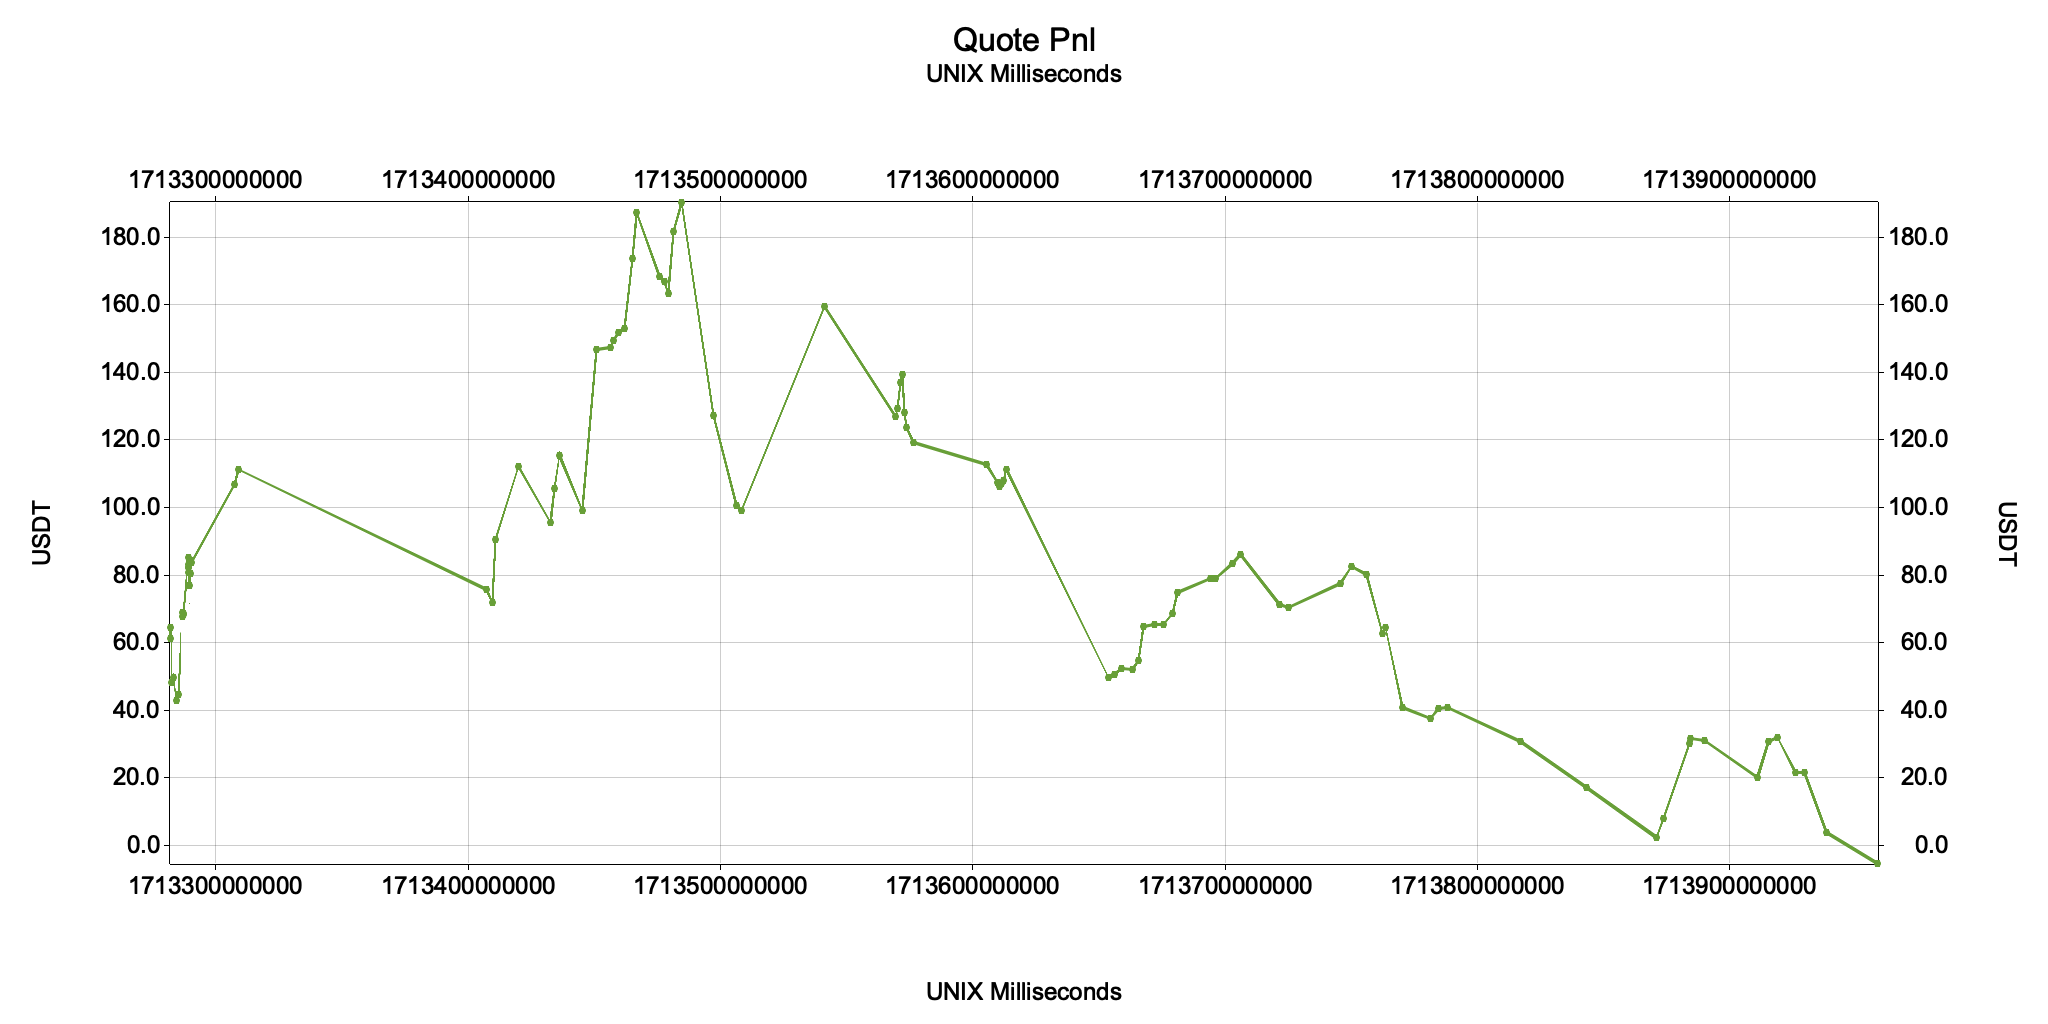
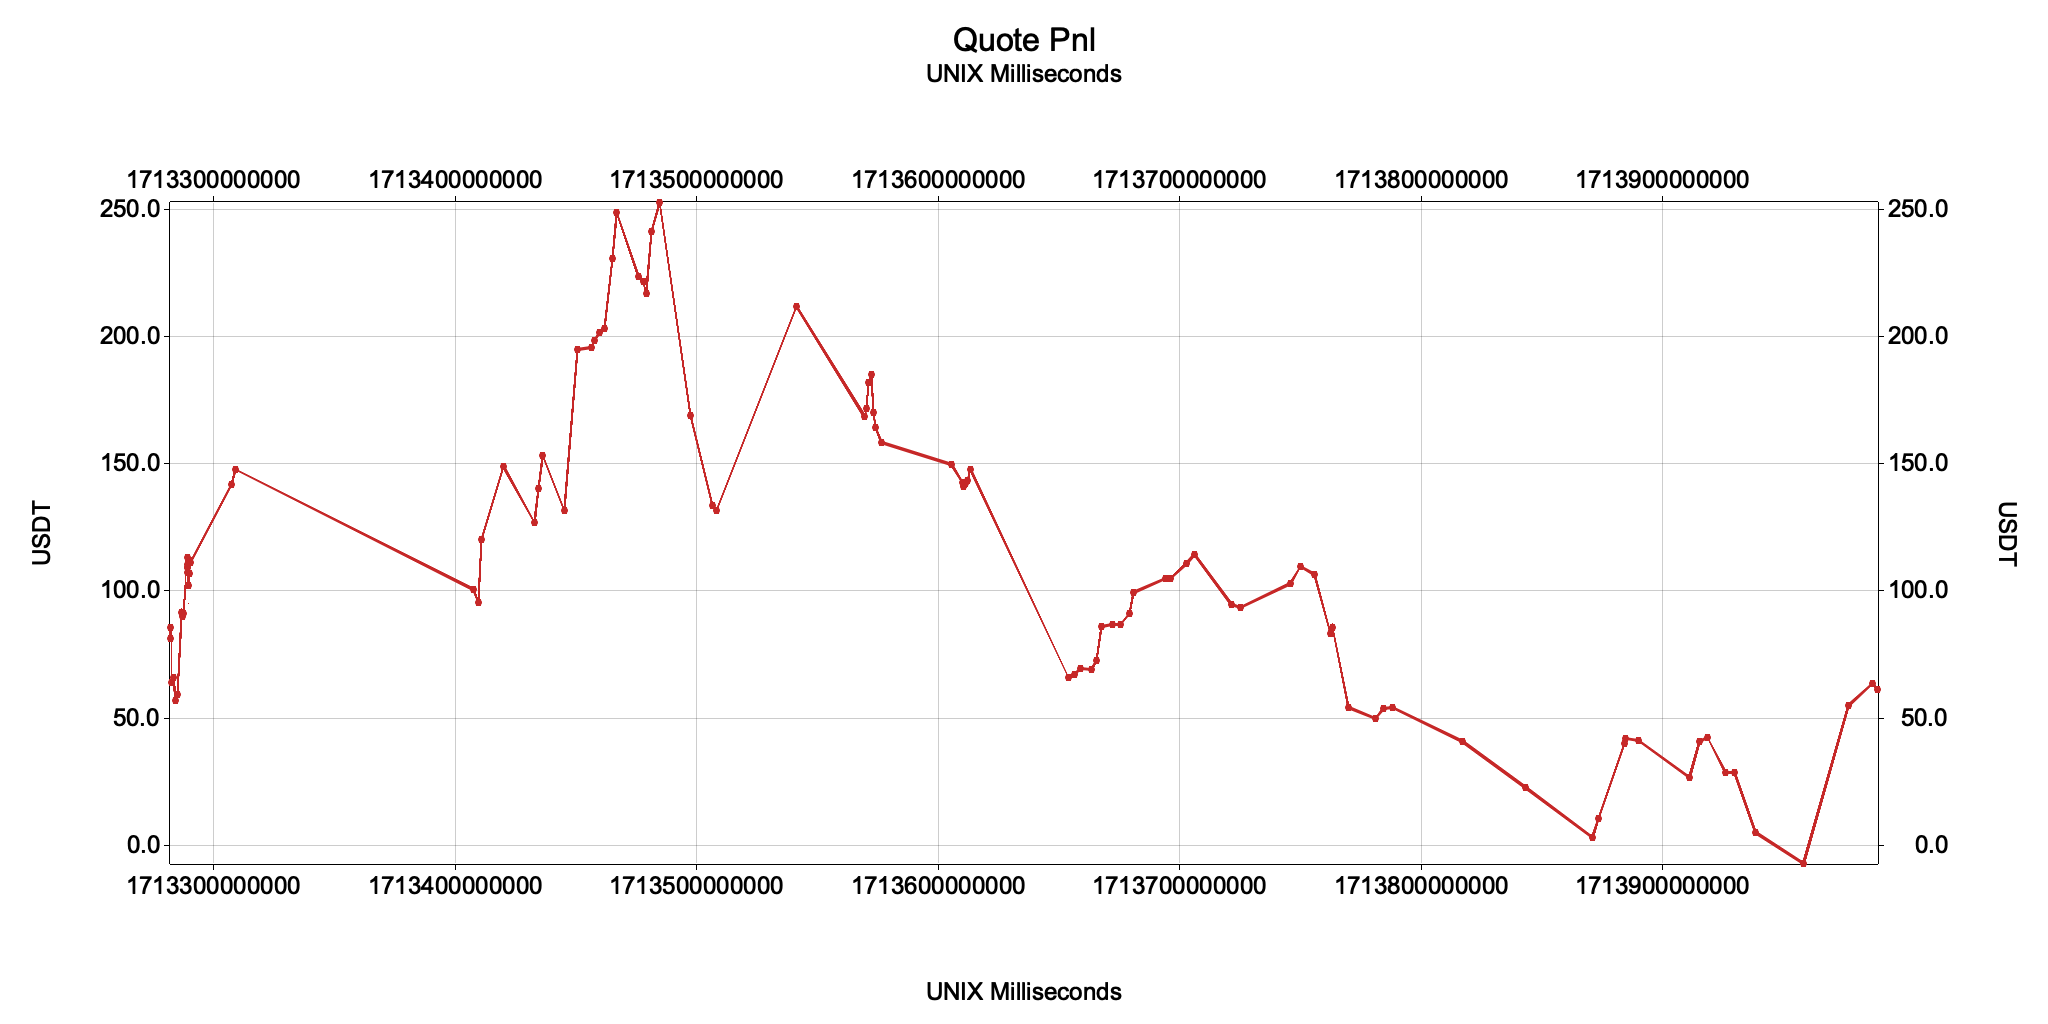
backtest

diff --git a/dreamrunner/src/backtest.rs b/dreamrunner/src/backtest.rs
@@ -244,6 +244,7 @@ impl Backtest {
     let signals = &self.signals;
 
     let mut quote = 0.0;
+    let mut pnl_data = Vec::new();
     let mut quote_data = Vec::new();
     let mut winners = 0;
     let mut total_trades = 0;
@@ -294,6 +295,10 @@ impl Backtest {
             x: date.to_unix_ms(),
             y: trunc!(quote, 4)
           });
+          pnl_data.push(Data {
+            x: date.to_unix_ms(),
+            y: trunc!(quote_pnl / capital * 100.0, 4)
+          })
         },
         _ => continue
       }
@@ -309,7 +314,7 @@ impl Backtest {
     let max_pct_drawdown = quote_drawdown / max_quote * 100.0;
 
     Ok(Summary {
-      roi: trunc!(quote, 4),
+      quote: trunc!(quote, 4),
       pnl: trunc!(quote / capital * 100.0, 4),
       win_rate: trunc!(win_rate, 4),
       total_trades,
@@ -317,7 +322,8 @@ impl Backtest {
       avg_trade_roi: trunc!(avg_quote_pnl, 4),
       avg_trade_pnl: trunc!(avg_pct_pnl, 4),
       max_pct_drawdown: trunc!(max_pct_drawdown, 4),
-      roi_data: quote_data
+      quote_data,
+      pnl_data
     })
   }
 
@@ -327,6 +333,7 @@ impl Backtest {
     let initial_capital = capital;
 
     let mut quote = 0.0;
+    let mut pnl_data = Vec::new();
     let mut quote_data = Vec::new();
     let mut winners = 0;
     let mut total_trades = 0;
@@ -365,6 +372,10 @@ impl Backtest {
         x: entry.get().date.to_unix_ms(),
         y: trunc!(quote, 4)
       });
+      pnl_data.push(Data {
+        x: entry.get().date.to_unix_ms(),
+        y: trunc!(quote_pnl / initial_capital * 100.0, 4)
+      });
 
       let quantity = capital / exit.get().price;
       let updated_exit = Trade {
@@ -390,7 +401,7 @@ impl Backtest {
     let max_pct_drawdown = quote_drawdown / max_quote * 100.0;
 
     Ok(Summary {
-      roi: trunc!(quote, 4),
+      quote: trunc!(quote, 4),
       pnl: trunc!((capital - initial_capital) / initial_capital * 100.0, 4),
       win_rate: trunc!(win_rate, 4),
       total_trades,
@@ -398,7 +409,8 @@ impl Backtest {
       avg_trade_roi: trunc!(avg_quote_pnl, 4),
       avg_trade_pnl: trunc!(avg_pct_pnl, 4),
       max_pct_drawdown: trunc!(max_pct_drawdown, 4),
-      roi_data: quote_data
+      quote_data,
+      pnl_data
     })
   }
 
@@ -567,7 +579,7 @@ async fn sol_backtest() -> anyhow::Result<()> {
   let fee = 0.15;
 
   let start_time = Time::new(2023, &Month::from_num(1), &Day::from_num(1), None, None, None);
-  // let start_time = Time::new(2024, &Month::from_num(3), &Day::from_num(6), None, None, None);
+  // let start_time = Time::new(2024, &Month::from_num(4), &Day::from_num(21), None, None, None);
   let end_time = Time::new(2024, &Month::from_num(4), &Day::from_num(22), None, None, None);
 
   let out_file = "solusdt_30m.csv";
@@ -594,7 +606,7 @@ async fn sol_backtest() -> anyhow::Result<()> {
   summary.print();
 
   Plot::plot(
-    vec![summary.roi_data, backtest.buy_and_hold()?],
+    vec![summary.quote_data, backtest.buy_and_hold()?],
     "solusdt_30m_backtest.png",
     "SOL/USDT Dreamrunner Backtest",
     "Equity"
@@ -606,22 +618,9 @@ async fn sol_backtest() -> anyhow::Result<()> {
       y: candle.close
     }
   }).collect();
-  let highs: Vec<Data> = backtest.candles.iter().map(|candle| {
-    Data {
-      x: candle.date.to_unix_ms(),
-      y: candle.high
-    }
-  }).collect();
-  let lows: Vec<Data> = backtest.candles.iter().map(|candle| {
-    Data {
-      x: candle.date.to_unix_ms(),
-      y: candle.low
-    }
-  }).collect();
   let rust_kagis = backtest.kagis(wma_period, k_rev, k_src, ma_src)?;
   let pine_kagis = csv_series.kagis;
   Plot::plot(
-    // vec![closes, highs, lows, pine_kagis],
     vec![closes, rust_kagis, pine_kagis],
     "kagi_comparison.png",
     "Kagi Comparison",
@@ -669,7 +668,7 @@ async fn eth_backtest() -> anyhow::Result<()> {
   summary.print();
 
   Plot::plot(
-    vec![summary.roi_data, backtest.buy_and_hold()?],
+    vec![summary.quote_data, backtest.buy_and_hold()?],
     "ethusdt_30m_backtest.png",
     "ETH/USDT Dreamrunner Backtest",
     "Equity"
@@ -714,7 +713,7 @@ async fn btc_backtest() -> anyhow::Result<()> {
   summary.print();
 
   Plot::plot(
-    vec![summary.roi_data, backtest.buy_and_hold()?],
+    vec![summary.quote_data, backtest.buy_and_hold()?],
     "btcusdt_30m_backtest.png",
     "BTC/USDT Dreamrunner Backtest",
     "Equity"
@@ -801,7 +800,7 @@ async fn optimize() -> anyhow::Result<()> {
   summary.print();
 
   Plot::plot(
-    vec![summary.roi_data],
+    vec![summary.quote_data],
     out_file,
     "Dreamrunner Backtest",
     "Equity"

diff --git a/lib/src/account.rs b/lib/src/account.rs
@@ -117,11 +117,12 @@ impl Account {
 
     pub async fn pnl(&self, symbol: String) -> DreamrunnerResult<Summary> {
         let trades = self.trades(symbol).await?;
-        // let initial_capital = trades[0].price * trades[0].quantity;
-        let initial_capital = 1_000.0;
+        let initial_capital = trades[0].price * trades[0].quantity;
+        // let initial_capital = 1_000.0;
         let mut capital = initial_capital;
 
         let mut quote = 0.0;
+        let mut pnl_data = Vec::new();
         let mut quote_data = Vec::new();
         let mut winners = 0;
         let mut total_trades = 0;
@@ -147,6 +148,10 @@ impl Account {
                 x: entry.event_time,
                 y: trunc!(quote, 4)
             });
+            pnl_data.push(Data {
+                x: entry.event_time,
+                y: trunc!(quote / capital * 100.0, 4)
+            })
         }
         let avg_quote_pnl = quote_data.iter().map(|d| d.y).sum::<f64>() / quote_data.len() as f64;
         let avg_pct_pnl = avg_quote_pnl / initial_capital * 100.0;
@@ -163,7 +168,7 @@ impl Account {
         info!("trade period: {} - {}", first_trade, last_trade);
 
         Ok(Summary {
-            roi: trunc!(quote, 4),
+            quote: trunc!(quote, 4),
             pnl: trunc!((capital - initial_capital) / initial_capital * 100.0, 4),
             win_rate: trunc!(win_rate, 4),
             total_trades,
@@ -171,7 +176,8 @@ impl Account {
             avg_trade_roi: trunc!(avg_quote_pnl, 4),
             avg_trade_pnl: trunc!(avg_pct_pnl, 4),
             max_pct_drawdown: trunc!(max_pct_drawdown, 4),
-            roi_data: quote_data
+            quote_data,
+            pnl_data
         })
     }
 

diff --git a/time_series/src/trade.rs b/time_series/src/trade.rs
@@ -42,7 +42,7 @@ impl Signal {
 
 #[derive(Debug, Clone, Serialize, Deserialize)]
 pub struct Summary {
-  pub roi: f64,
+  pub quote: f64,
   pub pnl: f64,
   pub win_rate: f64,
   pub total_trades: usize,
@@ -52,12 +52,13 @@ pub struct Summary {
   pub avg_trade_roi: f64,
   pub avg_trade_pnl: f64,
   pub max_pct_drawdown: f64,
-  pub roi_data: Vec<Data>
+  pub quote_data: Vec<Data>,
+  pub pnl_data: Vec<Data>
 }
 impl Summary {
   pub fn print(&self) {
     println!("Return: {}%", self.pnl);
-    println!("Return: ${}", self.roi);
+    println!("Return: ${}", self.quote);
     println!("Avg Trade Return: ${}", self.avg_trade_pnl);
     println!("Avg Trade Size: ${}", self.avg_trade_size);
     println!("Win Rate: {}%", self.win_rate);

diff --git a/time_series/src/kagi.rs b/time_series/src/kagi.rs
@@ -20,7 +20,7 @@ impl Kagi {
       KagiDirection::Up => {
         let src = candle.low;
         let diff = candle.close - kagi.line;
-
+    
         if diff.abs() > rev_amt {
           if diff > 0.0 {
             new_kagi.line = src;
@@ -36,7 +36,7 @@ impl Kagi {
       KagiDirection::Down => {
         let src = candle.high;
         let diff = candle.close - kagi.line;
-
+    
         if diff.abs() > rev_amt {
           if diff < 0.0 {
             new_kagi.line = src;

diff --git a/server/src/main.rs b/server/src/main.rs
@@ -164,7 +164,7 @@ async fn plot_pnl(account: Data<Arc<Account>>) -> DreamrunnerResult<HttpResponse
       .pnl(account.ticker.clone()).await?;
     
     Plot::plot(
-        vec![res.roi_data],
+        vec![res.quote_data],
         "dreamrunner_roi.png",
         "Quote Pnl",
         QUOTE_ASSET

diff --git a/dreamrunner/src/main.rs b/dreamrunner/src/main.rs
@@ -131,7 +131,7 @@ async fn main() -> DreamrunnerResult<()> {
         }
       }
     }
-    warn!("🟡 Shutting websocket stream");
+    warn!("🟡 Shutting down websocket stream");
     DreamrunnerResult::<_>::Ok(())
   });
 
